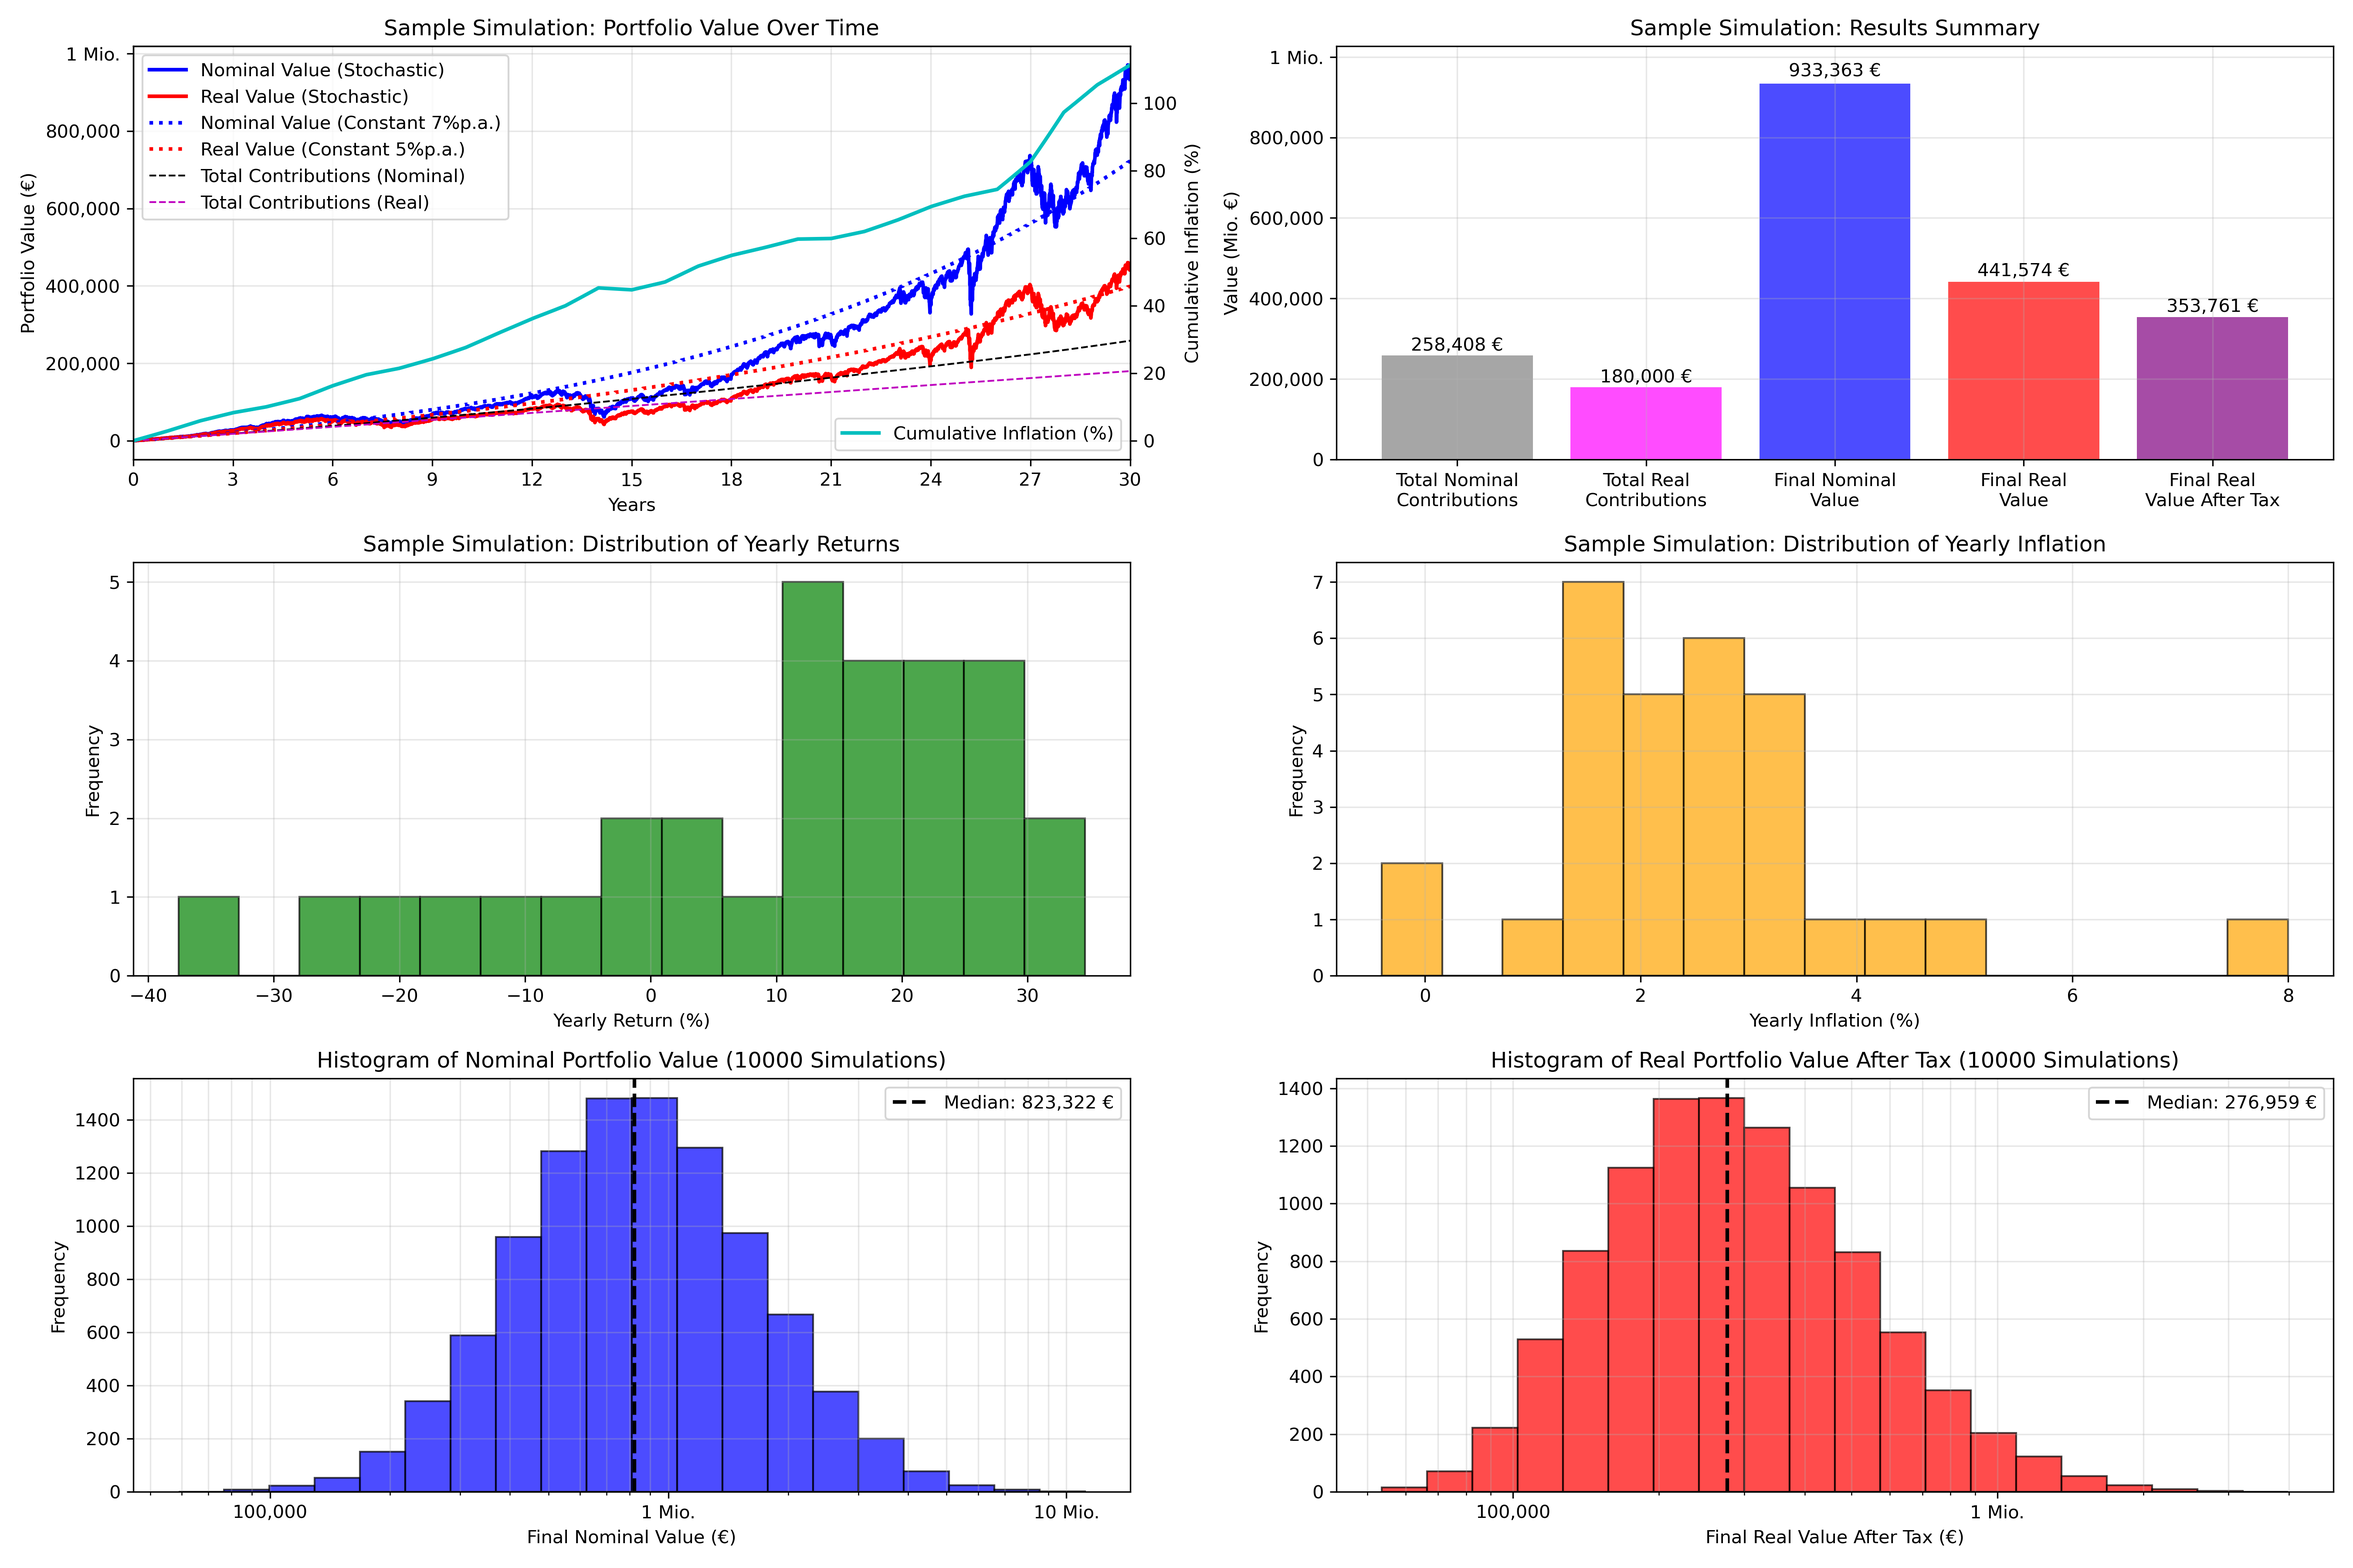
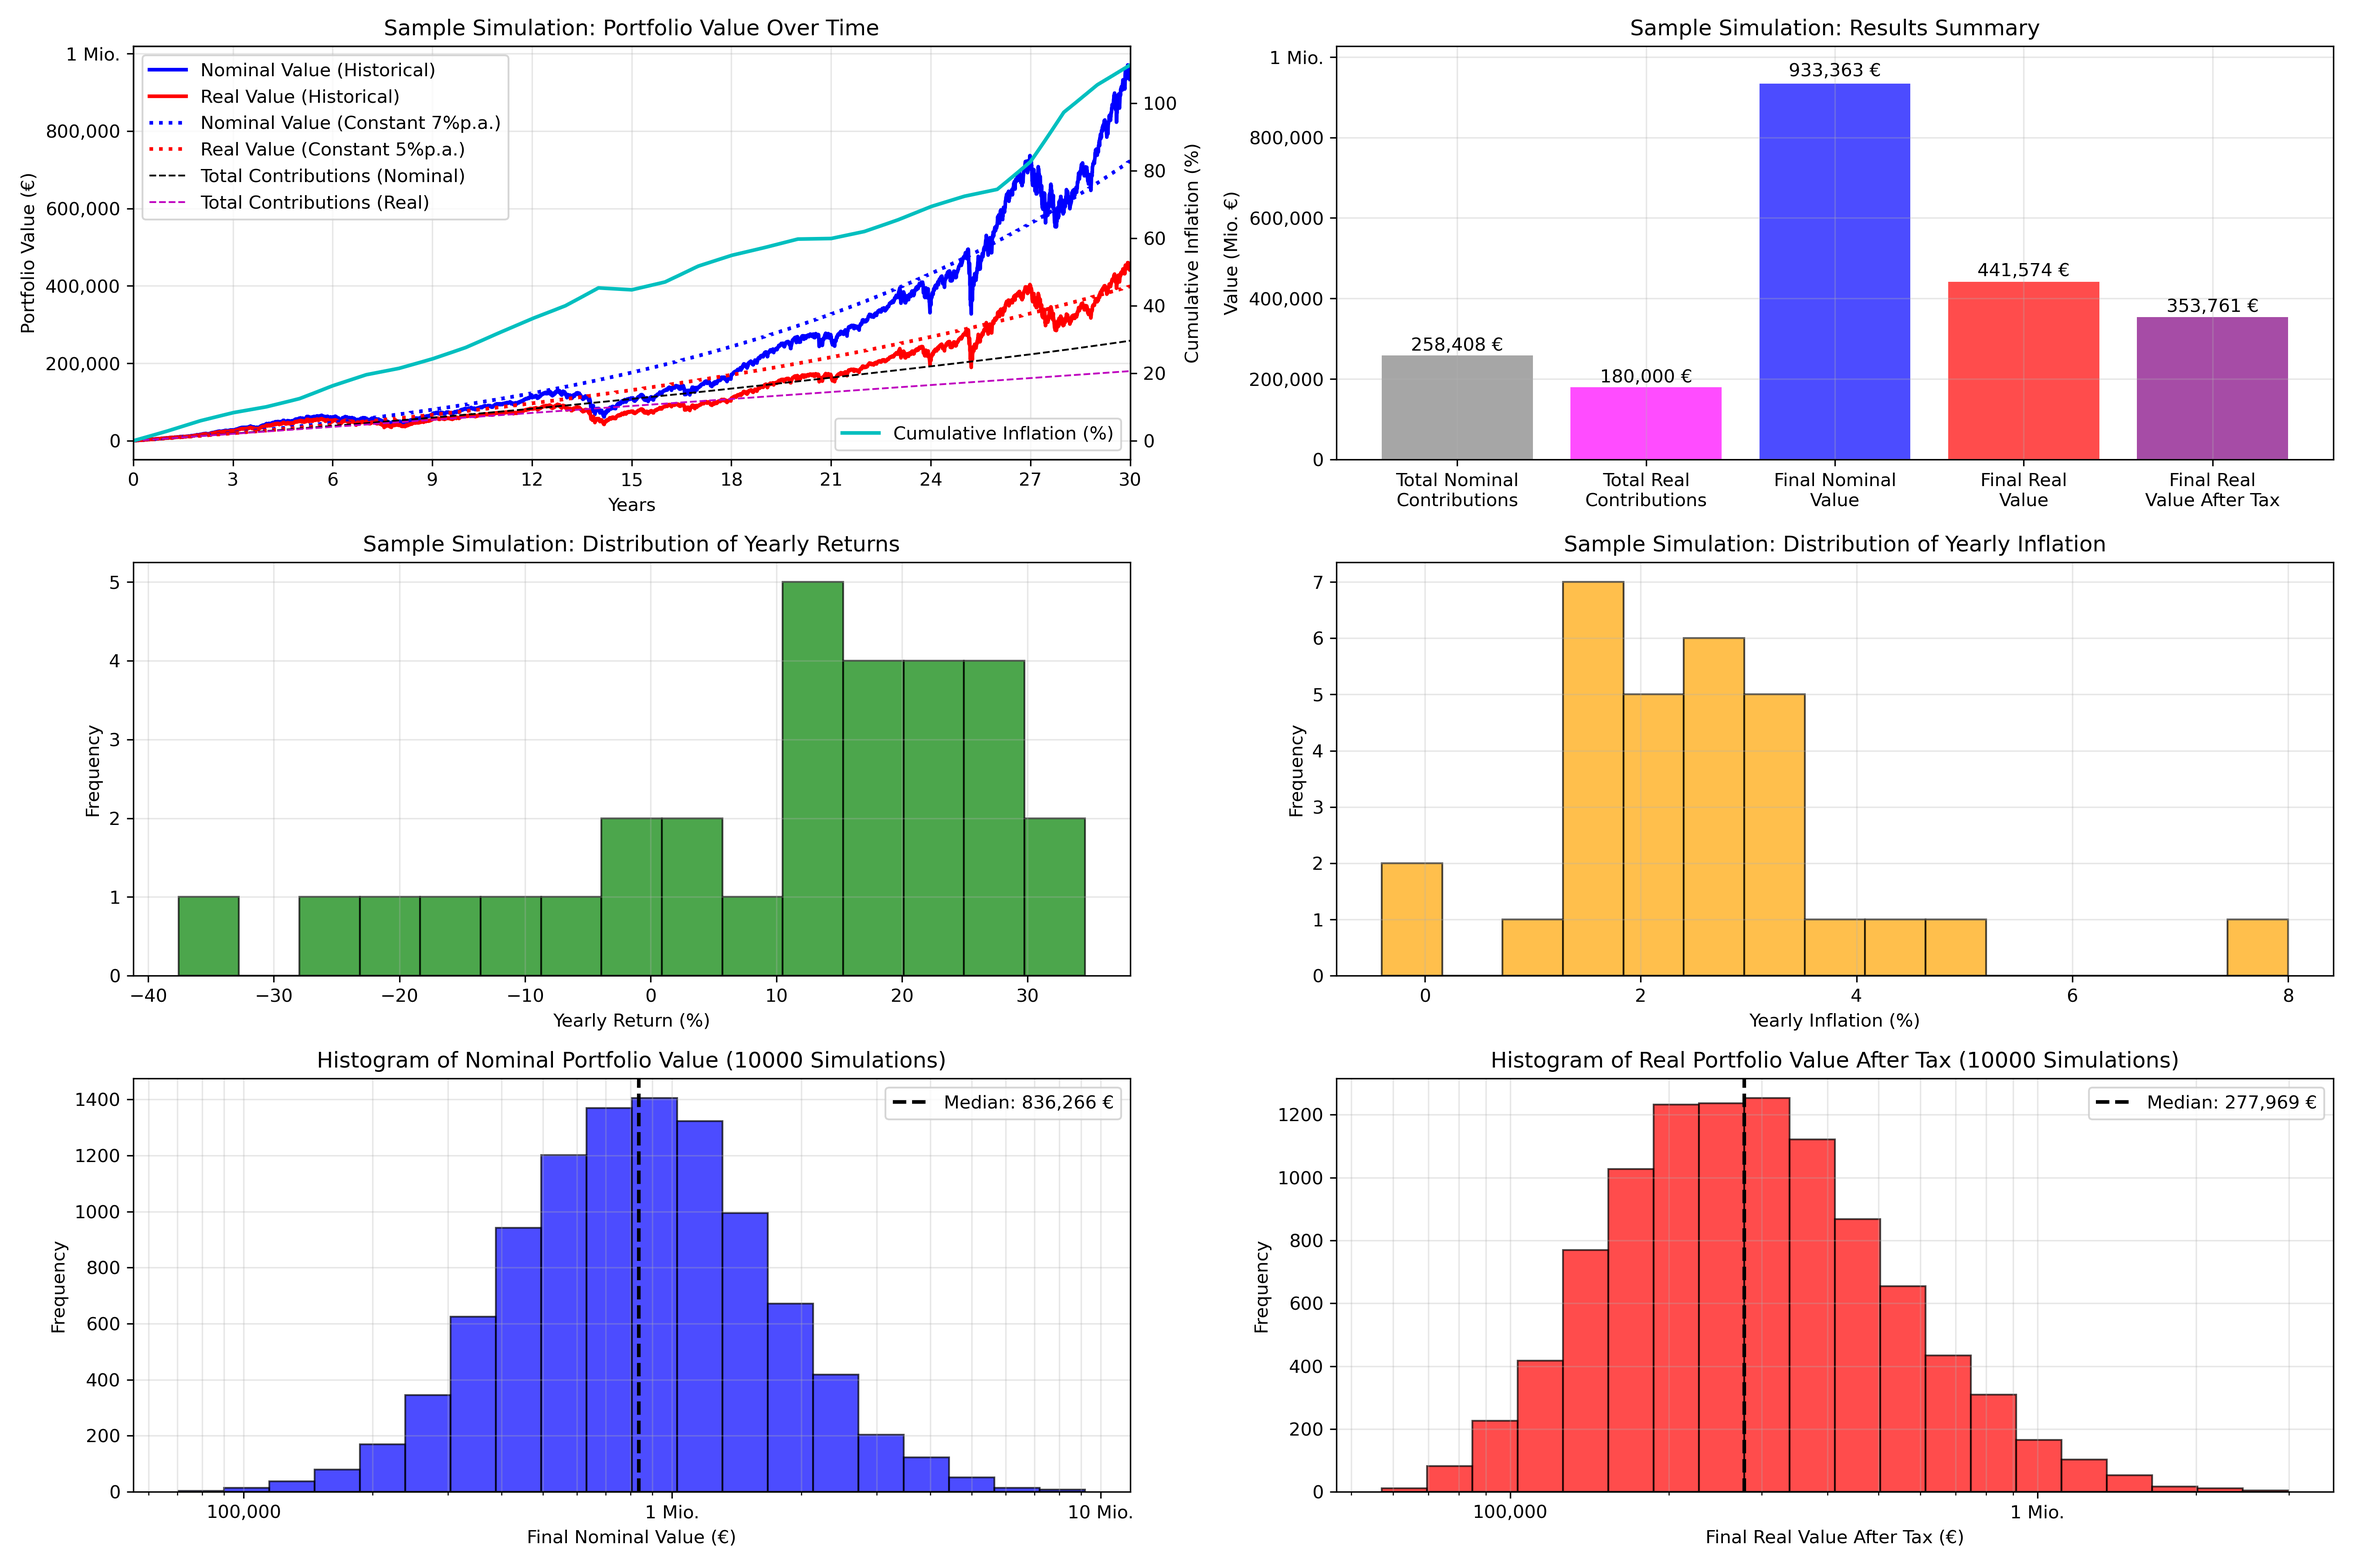
Small fix

diff --git a/run.py b/run.py
@@ -325,8 +325,14 @@ plt.figure(figsize=(18, 12))
 
 # Portfolio value over time
 ax = plt.subplot(3, 2, 1)
-ax.plot(years_axis, nominal_values, 'b-', linewidth=2, label='Nominal Value (Stochastic)')
-ax.plot(years_axis, real_values, 'r-', linewidth=2, label='Real Value (Stochastic)')
+if use_synthetic_data:
+    string = "Stochastic"
+elif scramble_for_sample:
+    string = "Scrambled Historical"
+else:
+    string = "Historical"
+ax.plot(years_axis, nominal_values, 'b-', linewidth=2, label='Nominal Value (%s)' % string)
+ax.plot(years_axis, real_values, 'r-', linewidth=2, label='Real Value (%s)' % string)
 ax.plot(years_axis, const_nominal_values, 'b:', linewidth=2, label=f'Nominal Value (Constant {average_return}%p.a.)')
 ax.plot(years_axis, const_real_values, 'r:', linewidth=2, label=f'Real Value (Constant {average_return - average_inflation}%p.a.)')
 ax.plot(years_axis, cum_nominal_contrib_daily, 'k--', linewidth=1, label='Total Contributions (Nominal)')
